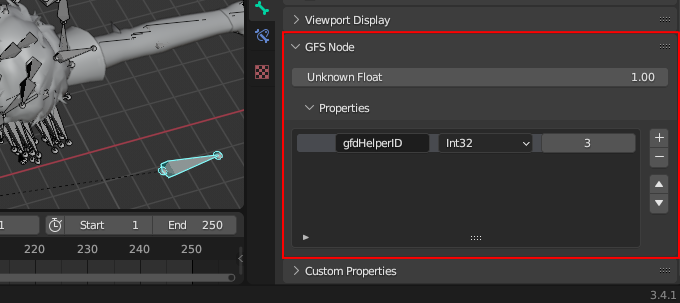
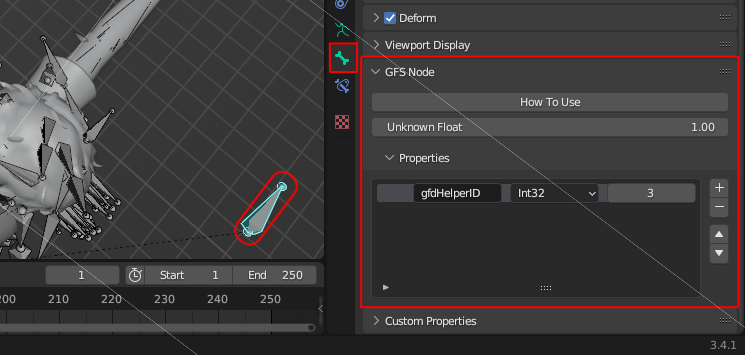
ADD: Documentation update

diff --git a/docs/documentation.tex b/docs/documentation.tex
@@ -5,11 +5,14 @@
 % ############### %
 \usepackage[utf8]{inputenc}
 %\usepackage[margin=80pt]{geometry}
+\usepackage{fancyhdr}
 \usepackage{graphicx}
 \usepackage[hidelinks]{hyperref}
 \usepackage[most]{tcolorbox}
 \usepackage{tikz}
 \usetikzlibrary{shadows}
+
+\pagestyle{fancy}
 
 % ################ %
 % ENVIRONMENT DEFS %
@@ -111,10 +114,42 @@
 
 \pagenumbering{arabic} 
 
-%\section{Getting Started}
-%\clearpage
+\section{Getting Started}
+BlenderToolsForGFS is a \textbf{Blender 2.81+} plugin. It should work on all versions of Blender including and beyond 2.81. The plugin has been developed on versions 2.83 and 3.4.1.
+
+\subsection{Installing the Plugin}
+
+
+\subsection{Removing the Plugin}
+
+\subsection{A Note on Expectations}
+This plugin should be viewed as a \textbf{supplement} to existing model-editing tools, and not as a replacement. You should, in particular, post-process any models exported from Blender in \textbf{GFD Studio}, following existing tutorials and knowledge to achieve your goals.
+
+Please also note that although this document does offer a number of guides on bits of basic Blender usage required to use the plugin, this is not a guide on how to use Blender. If you are intending to work with models and animations, it is ultimately your responsibility to learn how to use Blender using the wealth of resources available on the internet.
+
+This is also not a guide on how to mod games. Again, it is your responsibility to seek out or discover the information you require to attain any such goals.
+
+What this guide \textit{is} intended for is to assist you in successfully exporting data from Blender to the GFS file format. Suggestions for improvements on how to do that are very much welcomed, as long as they do not fall out-of-scope for the essential use of the plugin.
+\clearpage
 
 \section{Import}
+\subsection{Import Restrictions}
+Currently, a subset of features of the GFS format are not supported by the plugin and cannot be exported. These are:
+\begin{itemize}
+\item File versions outside of the range 0x01104920 - 0x01105100
+\item EPL Data (Subfiles / Particle Effects)
+\item Morphs / Shapekeys
+\item Strings that are not SHIFT-JIS- (for texture file names) or UTF8- (everything else) encoded
+\end{itemize}
+
+There are also some additional considerations to bear in mind.
+\begin{itemize}
+\item During import, meshes are re-parented from their positioning node to the root node, whilst preserving their world transform. This is because there does not seem to be a straightforward way to make a mesh follow the transform of a bone whilst also being deformed by an armature without Blender double-counting transformations. These positioning nodes are also removed from the import if they are not used for any other purpose.
+\item Animations of the Root Node and of mesh positioning nodes are not editable from Blender. Any mesh positioning node animations \textbf{will be messed up} by the Blender import if these nodes were not originally children of the root node. This must be fixed outside of Blender by re-parenting and repositioning these nodes.
+\item Only non-BC7 DDS texture slots are currently importable in models.
+\end{itemize}
+
+\clearpage 
 \subsection{Importing Model (GMD/GFS) Files}
 \begin{guide}{Accessing the Model Import Menu}
 \item Open the File menu and navigate to the \textbf{Import} \textgreater\space \textbf{GFS} \textgreater\space \textbf{GFS Model} submenu item.
@@ -142,6 +177,7 @@ Many beginners to Blender are confused by the fact that models do not display th
 \end{guide}
 
 \subsubsection{Importing Large Models}
+\label{SECTION::ImportingLargeModels}
 Some models, such as Field Models, are typically in such large units that they exceed the default render distance of Blender. In this instance, you may find it useful to increase Blender's render distance.\\
 \begin{guide}{Increasing Blender's Render Distance}
 \item Press the \keystroke{N} key to open the \textbf{Sidebar}.
@@ -152,15 +188,49 @@ Some models, such as Field Models, are typically in such large units that they e
 \guideimage{images/import/import_field_set_distance.png}
 \item Press the \keystroke{N} key to close the \textbf{Sidebar}.
 \end{guide}
+
+\subsubsection{Hiding Unused Bones}
+On import, three bone layers will be created in the armature:
+\begin{itemize}
+\item All Bones
+\item Bones used in Vertex Groups
+\item Bones not used in Vertex Groups
+\end{itemize}
+Selecting one of these layers will allow you to hide these subsets of bones. Note that these groups are created \textbf{by the plugin} on import, and if you add new bones to a model then it is up to you to add bones to whatever bone layers you want.
+
+\begin{guide}{Selecting Bone Layers}
+\item Switch to Object Mode.
+\guideimage{images/import/import_to_object_mode.png}
+\item Select the model armature.
+\item Click the Armature icon in the Properties Panel. Select the Bone Layer that is active in the Viewport.
+\guideimage{images/import/import_bone_layer_select.png}
+\end{guide}
+
 \clearpage
 
 \section{Editing Models and Animations}
 \subsection{GFS Models}
+Models are imported as Armature objects with meshes, cameras, and lights parented below them. Most of the objects imported from GFS files can carry additional information beyond pure geometry and shading data, which is outlined in the proceeding sections.
 
+GFS models are very large compared to typical Blender scales. If parts of the model disappear as you zoom out, you will need to change the render distance of Blender as described in section \ref{SECTION::ImportingLargeModels}.
+
+The data in the files are assumed to be oriented Y-up and with X-axis-oriented bones. During import, these are converted to the Z-up orientation and Y-axis-oriented bones to match the Blender conventions. On export, the Blender data is converted back to Y-up orientation and X-axis-oriented bones. 
 
 \subsubsection{Bones}
-\begin{guide}{Accessing Extra Properties}
-\item placeholder
+\label{SECTION::EditingBones} 
+There are no special considerations for bones beyond how they behave in Blender. However, bones do also have some additional information that can be attached to them not representable in Blender. These can be accessed from the \textbf{GFS Node} panel in the \textbf{Bone Properties}.
+
+\begin{itemize}
+\item \textbf{Unknown Float}: Unknown. Always seems to take a value of 1.
+\item \textbf{Properties}: Custom properties attached to the bone. See section \ref{SECTION::GfsProperties} for further details.
+\end{itemize}
+
+\begin{guide}{Accessing Extra Bone Properties}
+\item Select the armature of the model either in the Viewport or in the Outliner.
+\guideimage{images/editing_models/edits_select_armature.png}
+\item Switch to Pose Mode.
+\guideimage{images/editing_models/edits_to_pose_mode.png}
+\item Select a bone and select the Bone icon in the Properties panel. You will find a panel called ``GFS Node" containing the additional Bone Properties.
 \guideimage{images/editing_models/edits_bone_properties.png}
 \end{guide}
 \clearpage
@@ -168,15 +238,184 @@ Some models, such as Field Models, are typically in such large units that they e
 \subsubsection{Rest Pose}
 
 \subsubsection{Meshes}
+Meshes that belong to a GFS model are parented under an armature. Meshes can use an armature deform with vertex groups as usual inside Blender. However, each vertex is only allowed to be part of a maximum of 4 vertex groups, and a maximum of 256 vertex groups are permitted across the entire model. If two meshes are weighted to the same bone, this counts as two vertex groups, since vertex groups are tied to the transform of a mesh in the GFS file format. The two vertex groups can be counted as one if meshes are parented to each other, as will be described momentarily.
 
+The transform of the mesh inside Blender is exported as the mesh transform within the GFS files. Note however that meshes can be parented under other meshes to ensure that they share a transform. In this situation, the transform of the child-mesh is ignored and should always be a unit transform if you want to accurately see what will be exported in the viewport. In addition, if a mesh and its parent-mesh both use the same bone as a vertex group, it will be counted once instead of double-counted since both meshes have the same transform. Only one level of mesh-to-mesh parenting will be detected on export.
+
+\begin{guide}{Mesh Parenting for GFS}
+\item Meshes must be parented under an armature. The transform of a mesh dictates the transform of the mesh in the exported file.
+\guideimage{images/editing_models/edits_parent_mesh.png}
+\item Meshes can also be parented under other meshes. The transform of these child meshes will be ignored. Parenting a mesh under another mesh ensures that they will share a transform in the exported file and vertex groups used by both meshes will not be double-counted by the file format.
+\guideimage{images/editing_models/edits_child_mesh.png}
+\end{guide}
+
+\begin{guide}{Unparenting Objects within Blender}
+\item Select an object in the outliner or in the viewport.
+\item Press \keystroke{Alt} + \keystroke{P} with the mouse in the Viewport.
+\item Select either:
+\begin{enumerate}
+\item \textbf{Clear Parent} if you want to unparent the object from its parent \textbf{and} move the mesh so that its transform is relative to the origin.
+\item \textbf{Clear and Keep Transform} if you want to unparent the object from its parent \textbf{and} edit the mesh's transform so that it stays in the same place in the viewport.
+\end{enumerate}
+Ignore \textbf{Clear Parent Inverse}.
+\guideimage{images/editing_models/editing_unparent.png}
+\end{guide}
+
+\begin{guide}{Parenting Objects within Blender}
+\item Select the child object in the outliner or in the viewport.
+\guideimage{images/editing_models/edits_parent_1.png}
+\item Select the parent object in the outliner or in the viewport with \keystroke{Ctrl} + Click.
+\guideimage{images/editing_models/edits_parent_2.png}
+\item Press \keystroke{Ctrl} + \keystroke{P} with the mouse in the Viewport.
+\item Select either:
+\begin{enumerate}
+\item \textbf{Object (Without Inverse)} if you want to parent the object and reset its transform.
+\item \textbf{Object (Keep Transform Without Inverse)} if you want to parent the object \textbf{and} edit the mesh's transform so that it stays in the same place in the viewport.
+\end{enumerate}
+\guideimage{images/editing_models/edits_parent_3.png}
+\item In any situation, if after parenting your child object's transform is not what you expected, then:
+\begin{itemize}
+\item Select the child object.
+\item Press \keystroke{Alt} + \keystroke{P} with the mouse in the Viewport.
+\item Click \textbf{Clear Parent Inverse}.
+\end{itemize}
+This will remove the hidden ``parent inverse" matrix that sometimes gets inserted when parenting objects. This is harmless, but merely means that you object's transform may not align with what you see in the viewport if it is not a unit transform.
+\guideimage{images/editing_models/editing_unparent.png}
+\end{guide}
+
+Meshes have certain attributes that may be exported. These are:
+\begin{itemize}
+\item \textbf{Export Bounding Box}/\textbf{Sphere}: Define a bounding Box / Sphere on export.
+\item \textbf{Export Normals}/\textbf{Tangents}/\textbf{Binormals}: Export these attributes. They are required for specific material options to work.
+\item \textbf{Unknown Flag}: The purpose of Unknown Flags is not known. Checking and unchecking these may cause or fix crashes.
+\item \textbf{Unknown 0x12}: Purpose unknown.
+\item The GFS Node sub-panel will appear if the Mesh is not parented under another Mesh. Refer to section \ref{SECTION::EditingBones} for further details.
+\end{itemize}
+
+\begin{guide}{Accessing Extra Mesh Attributes}
+\item Select the mesh in the Outliner or in the Viewport.
+\guideimage{images/editing_models/edits_select_mesh.png}
+\item Switch to Object Mode.
+\guideimage{images/editing_models/edits_to_object_mode.png}
+\item Select the Mesh icon in the Properties panel. You will find a panel called ``GFS Mesh" containing the additional Mesh attributes.
+\guideimage{images/editing_models/edits_mesh_properties.png}
+\end{guide}
+
+\underline{\textbf{WARNINGS}}
+\begin{itemize}
+\item Many tutorials and help articles will tell you to \textbf{Apply Transforms} to your mesh to reset their transforms to a unit transform. \textbf{This is dangerous}. When you \textbf{Apply Transforms}, you are translating, rotating, and scaling the vertices that make up the mesh, rather than applying an extra transform on top of the mesh. This means that, for example, your mesh will now use the origin as the reference point from which it rotates and scales, rather than the point around which the mesh was modelled.
+\end{itemize}
 
 \subsubsection{Materials}
+\label{SECTION::EditingMaterials}
+
+Materials are not yet sufficiently understood to a degree whereby they can be consistently rendered in Blender. Therefore, materials are only represented in Blender as the Diffuse Texture of the material and all other properties are inferred from attributes or the names of Shader Nodes. Edits to the GFS Material attributes will, more often than not, simply lead to the model crashing any game that loads it. Due to this, editing materials from Blender is \textbf{not} currently recommended, except for the purposes of:
+\begin{enumerate}
+\item Adding textures to a material.
+\item Perhaps minor tweaks to attributes.
+\item Researching what the attributes do.
+\end{enumerate}
+You will have much more success following the strategy of current model editing guides: post-processing the model in \textbf{GFD Studio} by copying materials from other models onto your exported model. How to do this is beyond the scope of this documentation but detailed tutorials are available online.
+
+In the future, when materials are properly understood, a custom Shader Node Group should be implemented that allows the material to be rendered in a meaningful fashion, and allowing the values of attributes to be auto-calculated such that they do not crash the game. \textbf{There is not enough knowledge currently to do this and any contributions to material research enabling this feature is highly welcomed.}
+
+There are then two essential pieces to Material editing:
+\begin{itemize}
+\item Texture Samplers
+\item GFS Material Attributes
+\end{itemize}
+
+\noindent\underline{Texture Samplers}\\
+You can edit the textures used by a material by accessing the Shader Nodes. The first step is to open the Shader Node Editor.
+\begin{guide}{Opening the Shader Node Editor}
+\item Select the mesh in the Outliner or in the Viewport.
+\guideimage{images/editing_models/edits_select_mesh.png}
+\item Switch to Object Mode.
+\guideimage{images/editing_models/edits_to_object_mode.png}
+\item Select the Material icon in the Properties panel.
+\guideimage{images/editing_models/edits_select_material.png}
+\item Select the Shader Editor.
+\guideimage{images/editing_models/edits_open_shader_nodes.png}
+\end{guide}
+
+You can then set create new samplers to be exported and set their GFS attributes. There are nine types of textures available in the GFS format. Each material can have \textbf{one} of each type, and the plugin will recognise which type of sampler a node represents by the \textbf{name} of the node. The recognised names are:
+\begin{itemize}
+\item Diffuse Texture
+\item Normal Texture
+\item Specular Texture
+\item Reflection Texture
+\item Highlight Texture
+\item Glow Texture
+\item Detail Texture
+\item Night Texture
+\item Shadow Texture
+\end{itemize}
+
+Note also that the UV maps must also have specific names due to the way they are stored in the GFS file format. The permitted names are:
+\begin{itemize}
+\item UV0
+\item UV1
+\item UV2
+\item UV3
+\item UV4
+\item UV5
+\item UV6
+\item UV7
+\end{itemize}
+meaning that up to 8 maps are allowed per mesh.
+
+\begin{guide}{Editing Texture Samplers}
+\item Inside the Shader Editor, select or create an Image Node.
+\item Select the \textbf{Node} tab in the Sidebar. If the Sidebar is not open, press \keystroke{N} with the mouse inside the Shader Editor.
+\item Set the name of the node to one of the nine accepted names by changing the value in the Name field.
+\guideimage{images/editing_models/edits_rename_shader_node.png}
+\item Select or create a UV Map node. Select a UV map present on the mesh from the drop-down on the node and hook the UV connector up to the Vector connector on the Texture node.
+\guideimage{images/editing_models/edits_set_node_uv_map.png}
+\item You can access the properties of a texture sampler by selecting the \textbf{GFS Texture} tab in the Sidebar. The properties for the sampler are given in the \textbf{GFS Texture Sampler} panel.
+\guideimage{images/editing_models/edits_texture_sampler_properties.png}
+\end{guide}
+
+\noindent\underline{GFS Material Attributes}\\
+\noindent Materials have certain attributes that may be exported. These are:
+\begin{itemize}
+\item \textbf{Unknown Flags}: The purpose of Unknown Flags is not known. Checking and unchecking these may cause or fix crashes.
+\item \textbf{Enable Vertex Colors}: Use Color Map data on the mesh.
+\item \textbf{Enable UV Anims}: Allow the UV coordinates of the mesh to be animated.
+\item \textbf{Use Light 2}: Purpose unknown.
+\item \textbf{Purple Wireframe}: Render the mesh as a purple wireframe.
+\item The GFS Node sub-panel will appear if the Mesh is not parented under another Mesh. Refer to section \ref{SECTION::EditingBones} for further details.
+\end{itemize}
+\begin{guide}{Accessing Extra Material Attributes}
+\item Select the mesh in the Outliner or in the Viewport.
+\guideimage{images/editing_models/edits_select_mesh.png}
+\item Switch to Object Mode.
+\guideimage{images/editing_models/edits_to_object_mode.png}
+\item Select the Material icon in the Properties panel. You will find a panel called ``GFS Material" containing the additional Material attributes.
+\guideimage{images/editing_models/edits_material_properties.png}
+\end{guide}
 
 \subsubsection{Textures}
+Textures must be DDS images with either no compression, or DXT1, DX3, or DXT5 compression. BC7 textures cannot currently be loaded by Blender and are currently unsupported. In the future, BC7 textures should be loadable \textit{via} an automatic conversion to a Blender-readable format.
+
+\noindent Materials have certain attributes that may be exported. These are:
+\begin{itemize}
+\item \textbf{Unknown 1}: Purpose unknown.
+\item \textbf{Unknown 2}: Purpose unknown.
+\item \textbf{Unknown 3}: Purpose unknown.
+\item \textbf{Unknown 4}: Purpose unknown.
+\end{itemize}
+These attributes can be edited from the \textbf{GFS Texture} Sidebar panel on a Texture Image node in the Shader Editor, as described in section \ref{SECTION::EditingMaterials}.
 
 \subsubsection{Cameras}
+Cameras are parented to bones on the model armature. The rest transform of a camera is:
+\begin{itemize}
+\item A 90 degree rotation in the Z axis
+\item A Y translation that puts the camera at the head of the bone it is parented to.
+\end{itemize}
+The Camera will have a View Matrix defined relative to this transform.
 
 \subsubsection{Lights}
+
 
 \subsubsection{Physics}
 Model physics are not currently editable from Blender.
@@ -188,6 +427,9 @@ Model physics are not currently editable from Blender.
 \subsubsection{Blend Animations}
 
 \subsubsection{LookAt Animations}
+
+\subsection{GFS Properties}
+\label{SECTION::GfsProperties}
 
 
 \section{Export}
